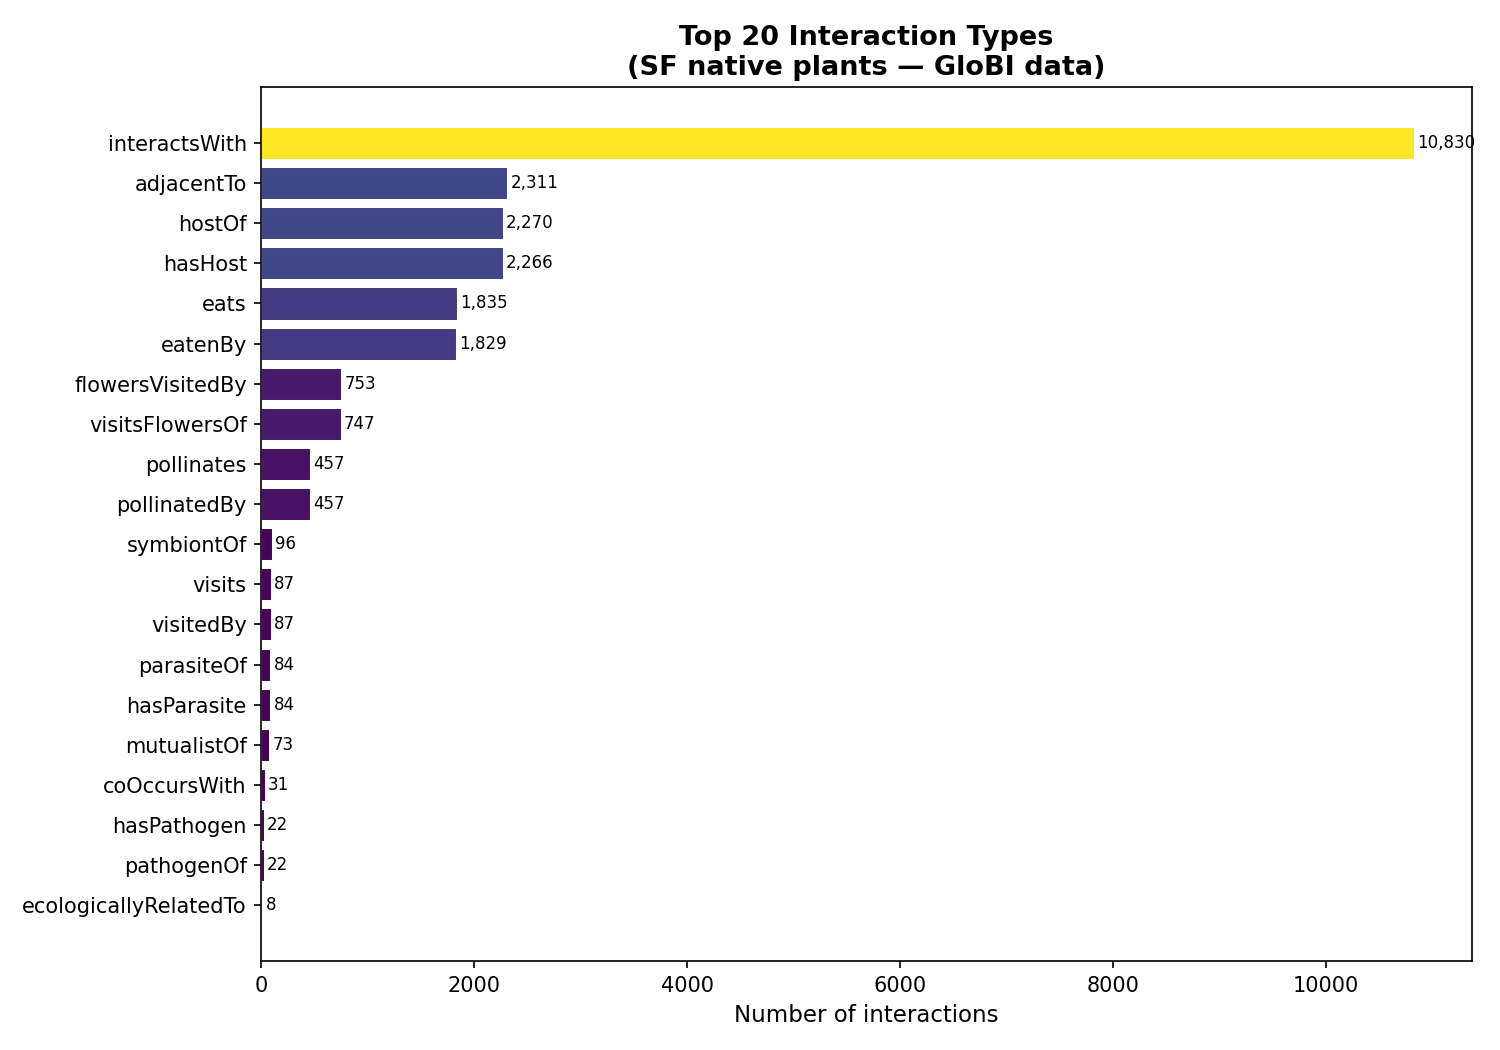
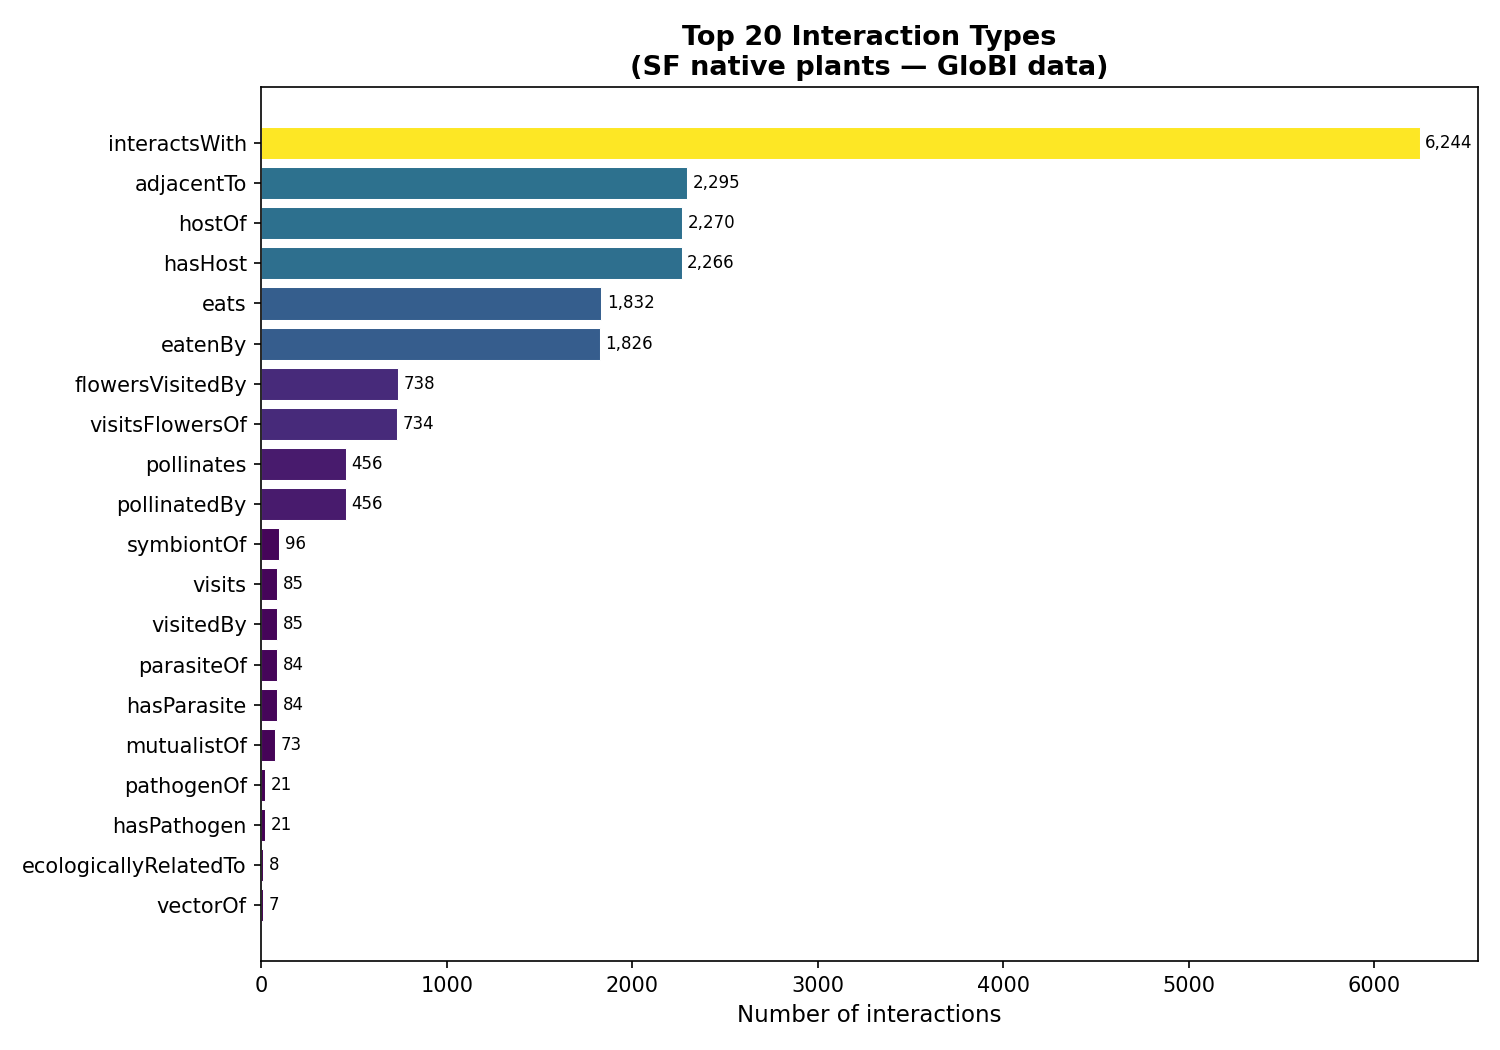
Filter out non-parasitic plant↔plant interactions
Removes 4,671 co-occurrence and adjacency records (interactsWith,
coOccursWith, adjacentTo, etc.) between plants, keeping only the 53
parasitic edges (parasiteOf, hasParasite, hostOf, hasHost).

https://claude.ai/code/session_01AXjvKhmSgVRLjYWUQLx3JS

diff --git a/insect-web/analyze.py b/insect-web/analyze.py
@@ -78,7 +78,10 @@ def is_animal(path: str) -> bool:
     return taxon_kingdom(path) in ("Insecta", "Arachnida", "Aves", "Mammalia")
 
 def is_plant(path: str) -> bool:
-    return taxon_kingdom(path) == "Plantae"
+    return any(k in (path or "") for k in
+               ("Plantae", "Angiosperms", "Viridiplantae", "Tracheophyta", "Gymnosperms", "Bryophyta"))
+
+PARASITIC_TYPES = {"parasiteOf", "hasParasite", "hostOf", "hasHost"}
 
 # ── load data ──────────────────────────────────────────────────────────────────
 records = json.loads(RAW_FILE.read_text())
@@ -105,7 +108,15 @@ for r in records:
 
 # drop rows missing both names
 rows = [r for r in rows if r["src_name"] or r["tgt_name"]]
-print(f"Clean rows: {len(rows)}")
+
+# drop non-parasitic plant↔plant interactions (co-occurrence noise)
+before = len(rows)
+rows = [
+    r for r in rows
+    if not (is_plant(r["src_path"]) and is_plant(r["tgt_path"])
+            and r["itype"] not in PARASITIC_TYPES)
+]
+print(f"Clean rows: {len(rows)} (removed {before - len(rows)} non-parasitic plant↔plant)")
 
 # classify each endpoint
 for r in rows:
